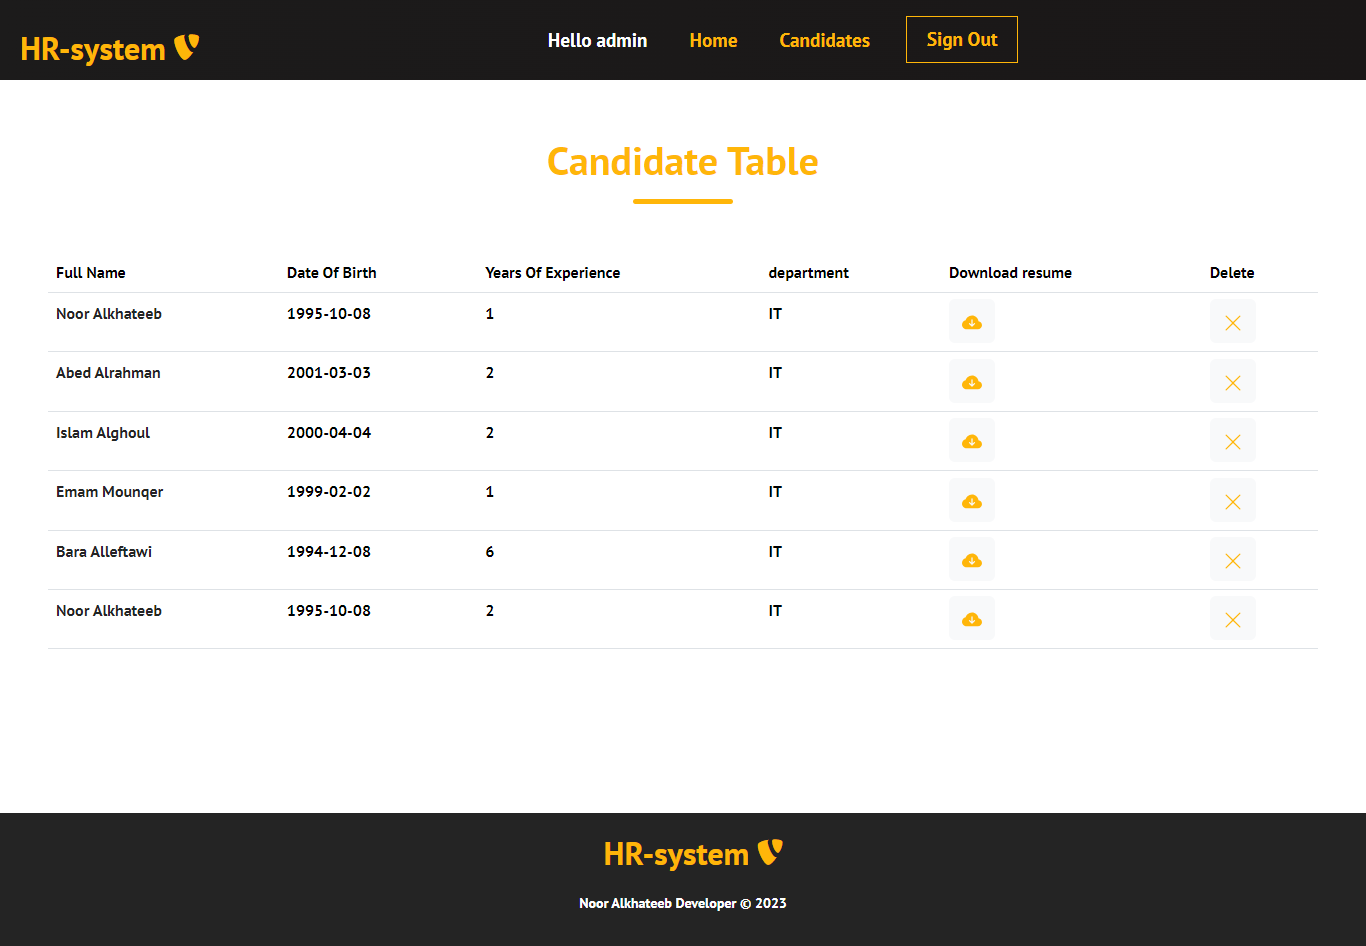
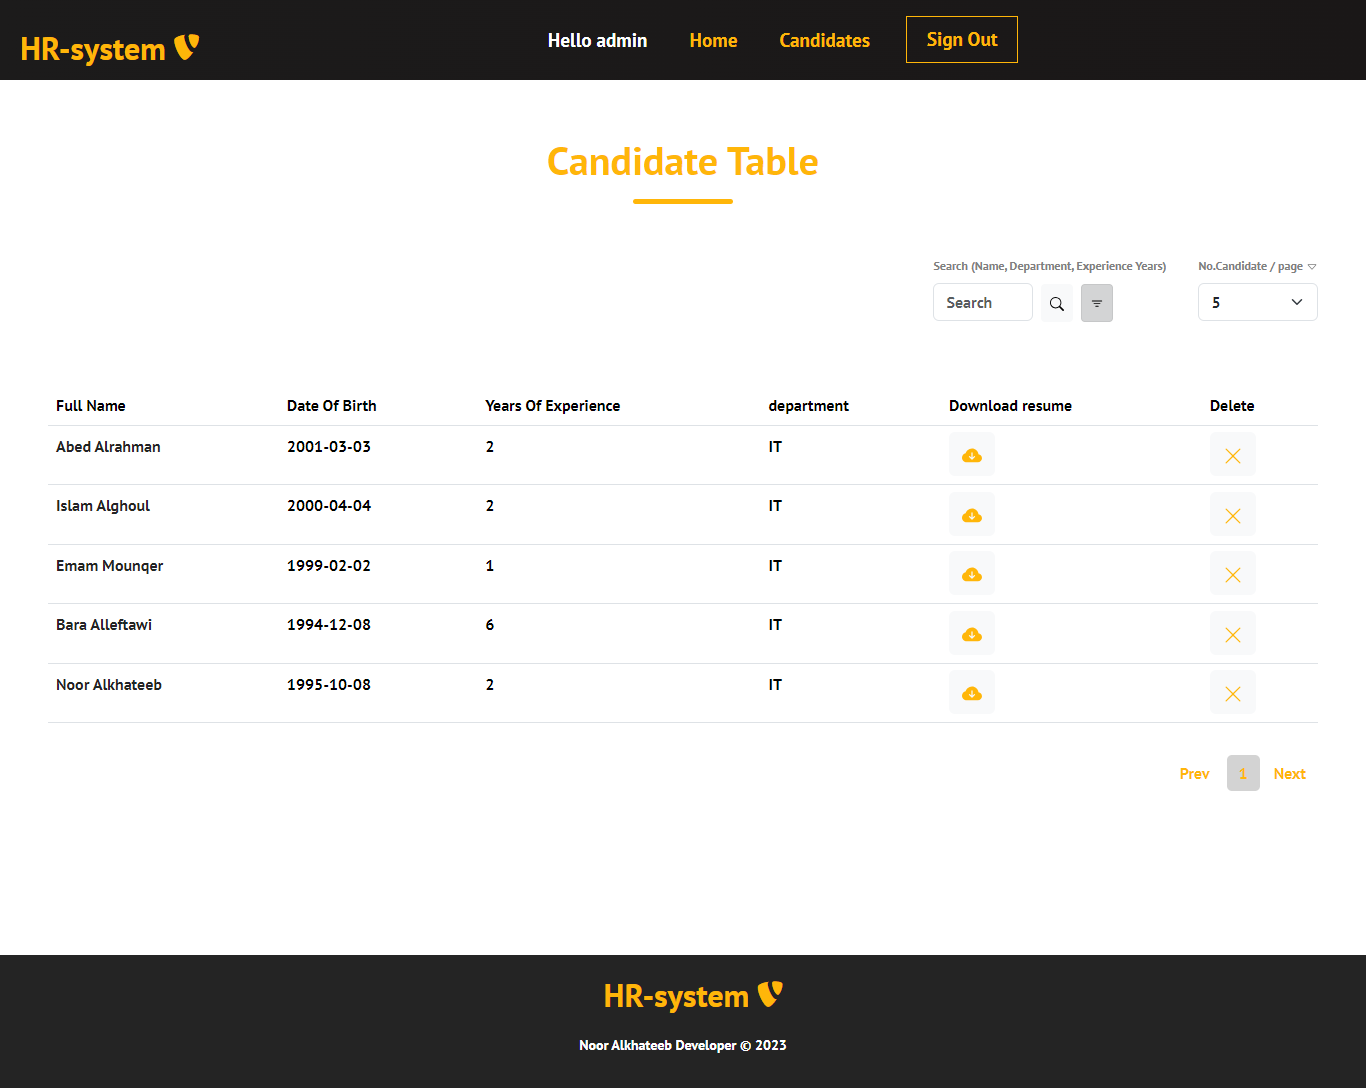
Add pagination & search on table

diff --git a/frontend/src/main-pages/Candidates.js b/frontend/src/main-pages/Candidates.js
@@ -1,12 +1,13 @@
 import React, { useContext, useEffect, useState } from 'react'
 import './Candidates.css'
-import { Button, Spinner, Table } from 'react-bootstrap'
+import { Button, Spinner, Table, Form } from 'react-bootstrap'
 import axios from 'axios'
 import AuthContext from '../context/AuthContext';
 import { BsFillCloudArrowDownFill } from 'react-icons/bs';
 import { toast } from 'react-toastify';
 import DeleteCandidateModal from '../components/Modals/DeleteCandidateModal';
-
+import PaginationNav from '../components/PaginationNav';
+import { BsCaretDown , BsFilter , BsSearch, BsFillEyeFill} from "react-icons/bs";
 
 function Candidates() {
   const [candidateList, setCandidateList] = useState('')
@@ -23,7 +24,7 @@ function Candidates() {
   },[reloadData])
 
   // axios.get(url, auth);
-  console.log('authTokens',authTokens)
+  // console.log('authTokens',authTokens)
   const getCandidateList = async () => {
     setLoadingData(true)
     let auth = { headers: { Authorization: `Bearer ${authTokens.access}` } };
@@ -32,8 +33,9 @@ function Candidates() {
       auth
       );
       setCandidateList(responce.data);
-      console.log('getCandidateList', responce.data)
+      // console.log('getCandidateList', responce.data)
       setLoadingData(false)
+      setresetLoading(false)
       
     }catch (error){
       console.error('Error fetching Candidates Data:', error);
@@ -54,7 +56,7 @@ function Candidates() {
   }
 
   const forceDownload =(responce,title)=>{
-     console.log('forceDownload',responce)
+    //  console.log('forceDownload',responce)
      const blob = new Blob([responce.data]);
      const blobUrl = window.URL.createObjectURL(blob);
     //  const url = window.URL.createObjectURL(new Blob([responce.data]))
@@ -65,6 +67,42 @@ function Candidates() {
      window.URL.revokeObjectURL(blobUrl);
      toast.success(`Successfully Downloaded ${title} File`)
   }
+
+  // state of Pagination Table
+    const [ currentPage , setCurrentPage ] = useState(1)
+    const [ recordsPerPage, setRecordsPerPage ] = useState(5)
+    const indexOfLastRow = currentPage * recordsPerPage; 
+    const indexOfFirstRow = indexOfLastRow - recordsPerPage; // first index in each page 
+    const recordsCandidate = candidateList.slice(indexOfFirstRow, indexOfLastRow);
+
+    // Change page
+    const paginate = pageNumber => setCurrentPage(pageNumber);
+
+
+    // state of Search Table
+    const [resetLoading, setresetLoading] = useState(false);
+    const [value,setValue] =useState('')
+
+    const handleSearch = (e) => {
+      e.preventDefault();
+      if(value){
+        const filterdData = (candidateList.filter((candid) => {
+          return((candid.full_name && candid.full_name.toLowerCase().includes(value.toLowerCase()))
+          || (candid.years_of_experience && candid.years_of_experience == value)
+          || (candid.department && candid.department.toLowerCase().includes(value.toLowerCase()))
+          )
+        }))
+        .slice(indexOfFirstRow, indexOfLastRow)
+        setCandidateList(filterdData)
+      }
+    }
+    const handleReset = () => {
+      setresetLoading(true)
+      getCandidateList()
+      setValue('')
+    }
+
+
   return (
     <div className='candidate-container'>
       <div className='Can-header'>
@@ -72,9 +110,47 @@ function Candidates() {
           <div className='Can-underline'></div>
       </div>
 
+
+
       <div className='table-container'>
       {loadingData && <div className='spinner-div'><Spinner animation='border' style={{color:'#ffb609'}} /></div>}
-      {!loadingData && <Table hover className='table-container'>
+      {!loadingData && <>
+
+      <div className='table-functions'>
+
+          <Form 
+            onSubmit={handleSearch}
+            >
+              <Form.Label className='table-label'>Search (Name, Department, Experience Years)</Form.Label>
+            <div style={{display:'flex', alignItems:'center'}}>
+            <Form.Group controlId="value" className='mb-3' style={{width:'100px'}}>
+              <Form.Control type="text" 
+              placeholder='Search'
+              value={value}
+              onChange={(e) => setValue(e.target.value)}/>
+            </Form.Group>
+            <Button title='search' size='sm' type='submit' variant="light" className='searchButton'><BsSearch /></Button>
+            <Button title='reset' size='sm' onClick={handleReset} className='resetButton' variant="light">{resetLoading ?  <Spinner animation='border' size='sm'/>:<BsFilter />}</Button>
+            </div>
+          </Form>
+
+          <div>
+              <Form.Label className='table-label'>No.Candidate / page <BsCaretDown /> </Form.Label>
+              <Form.Select
+                as="select"
+                value={recordsPerPage} 
+                onChange={(e)=> setRecordsPerPage(e.target.value)}
+              >
+                    <option value={3} id="options">{3}</option>
+                    <option value={5} id="options">{5}</option>
+                    <option value={10} id="options">{10}</option>
+                    <option value={15} id="options">{15}</option>
+                    <option value={20} id="options">{20}</option>
+              </Form.Select>
+              </div>
+      </div>
+
+      <Table hover className='table-container'>
         <thead>
           <tr>
             <th>Full Name</th>
@@ -88,7 +164,7 @@ function Candidates() {
         </thead>
         <tbody>
           { candidateList.length > 0 ? (
-            candidateList.map((candidate, indx)=> (
+            recordsCandidate.map((candidate, indx)=> (
               <tr key={indx} style={{color:'gray'}}>
                 <td style={{color:'#242424'}}>{candidate.full_name}</td>
                 <td>{candidate.date_of_birth}</td>
@@ -113,7 +189,16 @@ function Candidates() {
           
         </tbody>
 
-      </Table>}
+      </Table>
+      {/* Pagination Nav */}
+      <div style={{display:'flex', justifyContent:'flex-end'}}>
+      <PaginationNav
+      recordsPerPage = {recordsPerPage}
+      totalRows = {candidateList.length} 
+      currentPage={currentPage}
+      paginate= {paginate} />
+      </div>
+      </>}
       </div>
 
     </div>

diff --git a/frontend/src/components/PaginationNav.js b/frontend/src/components/PaginationNav.js
@@ -1,0 +1,35 @@
+import React from 'react'
+import './PaginationNav.css'
+
+function PaginationNav(props) {
+
+    const pageNumbers = [];
+
+    for (let i = 1; i <= Math.ceil(props.totalRows / props.recordsPerPage); i++) {
+        pageNumbers.push(i);
+      }
+
+  return (
+    <nav>
+      <ul className="pagination" style={{ marginTop: "1rem" }}>
+          <li key='a' className='page-item'>
+            <a href='#' className='page-link' onClick={()=> props.currentPage!= 1 ? props.paginate(props.currentPage-1) : props.paginate(props.currentPage)} id="previous" >Prev</a>
+          </li>
+        {pageNumbers.map(number => (
+            
+          <li key={number} className={`page-item ${props.currentPage === number ? "activePage" : ""}`}>
+            <a onClick={() => props.paginate(number)} href='#' className='page-link' id="pageN">
+              {number}
+            </a>
+          </li>
+          
+        ))}
+        <li key='b' className='page-item'>
+            <a href='#' className='page-link' onClick={()=> props.currentPage!= pageNumbers.length ? props.paginate(props.currentPage+1) : props.paginate(props.currentPage)} id="next">Next</a>
+          </li>
+      </ul>
+    </nav>
+  )
+}
+
+export default PaginationNav

diff --git a/frontend/src/main-pages/Candidates.css b/frontend/src/main-pages/Candidates.css
@@ -47,3 +47,31 @@
     background-color: gray;
     border-color: gray;
 }
+
+.table-functions{
+    display: flex;
+    justify-content: flex-end;
+    margin-bottom: 3rem;
+    gap: 2rem
+}
+
+/* Search & Reset Buttons */
+.searchButton{
+    color: #ffb609;
+    background-color: none;
+    height: 38px;
+    margin-top: -0.9rem;
+    margin-inline: 0.5rem;
+}
+
+.resetButton{
+    color: #ffb609;
+    background-color: none;
+    height: 38px;
+    margin-top: -0.9rem;
+}
+
+.table-label{
+    color: gray;
+    font-size: 12px;
+}

diff --git a/frontend/src/context/AuthContext.js b/frontend/src/context/AuthContext.js
@@ -30,8 +30,8 @@ export const AuthProvider = ({children}) =>{
                 })
         })
         let data = await response.json()
-        console.log('data:', data)
-        console.log('response:', response)
+        // console.log('data:', data)
+        // console.log('response:', response)
         if(response.status === 200){
             toast.success('Login Succesfully')
             setAuthTokens(data) // we will store it in state and in local storage.

diff --git a/frontend/src/components/Modals/DeleteCandidateModal.js b/frontend/src/components/Modals/DeleteCandidateModal.js
@@ -21,7 +21,7 @@ function DeleteCandidateModal(props) {
       const responce = await axios.delete(`http://127.0.0.1:8000/candidate/${props.candidate.id}/`,
       auth
       );
-      console.log(responce)
+      // console.log(responce)
       setLoadingDelete(false)
       toast.success('Successfuly Deleted')
       props.setReloadData((current)=>!current)

diff --git a/frontend/src/components/PaginationNav.css b/frontend/src/components/PaginationNav.css
@@ -1,0 +1,21 @@
+#pageN{
+    color: #ffb609;
+    border: none;
+    background-color: lightgray;
+    margin-left: 5px;
+    border-radius: 5px;
+}
+.activePage {
+    font-weight: bolder;
+}
+
+#previous{
+    color: #ffb609;
+    border: none;
+}
+
+#next{
+    color: #ffb609;
+    border: none;
+    margin-left: 2px;
+}

diff --git a/frontend/src/components/Modals/CandidateRigistrationModal.js b/frontend/src/components/Modals/CandidateRigistrationModal.js
@@ -40,7 +40,7 @@ function CandidateRigistrationModal(props) {
           },
         }
         ) .then((response)=>{
-            console.log(response)
+            // console.log(response)
             toast.success('Successfuly applied')
         }) .catch((err)=>{
             console.log(err)
